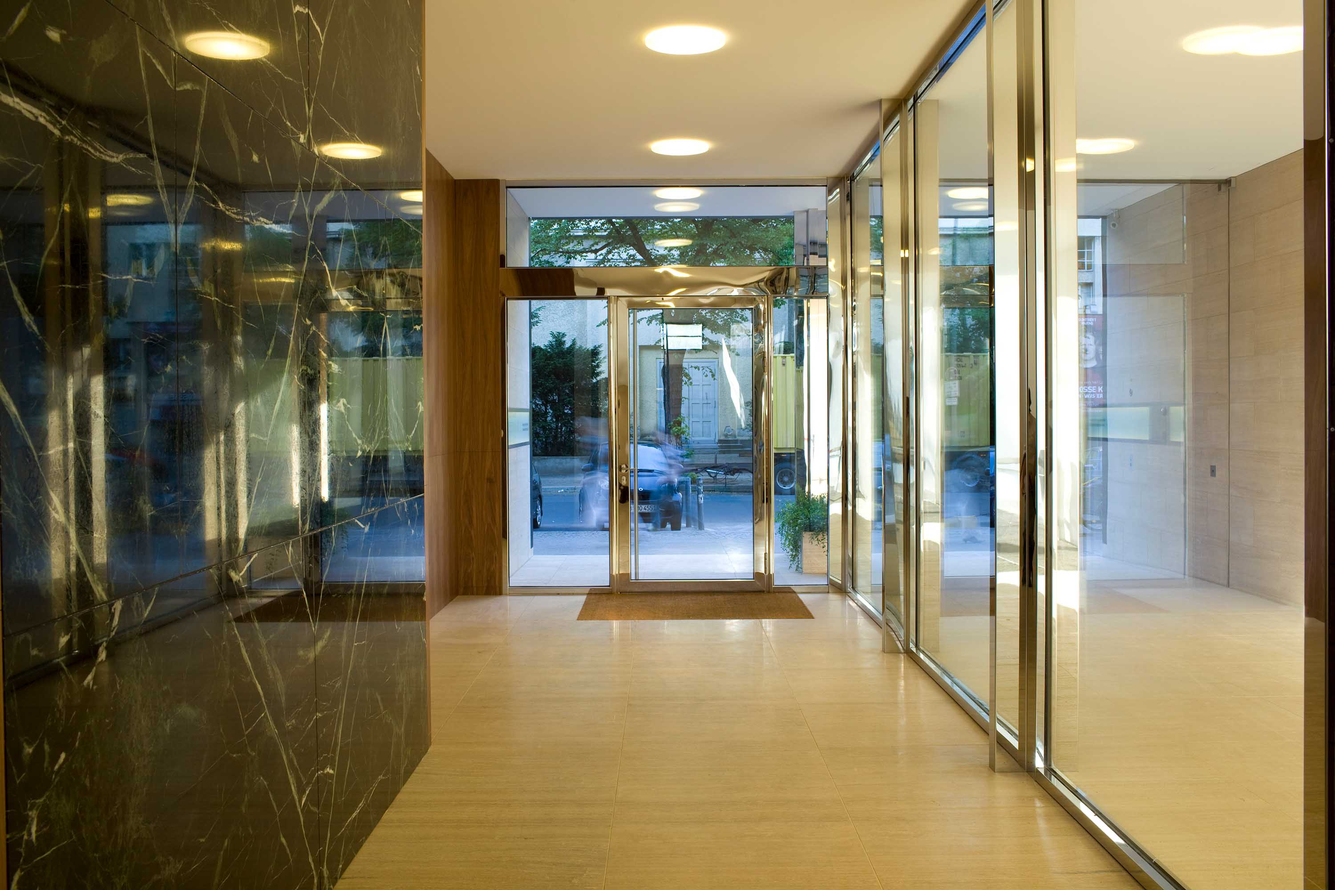
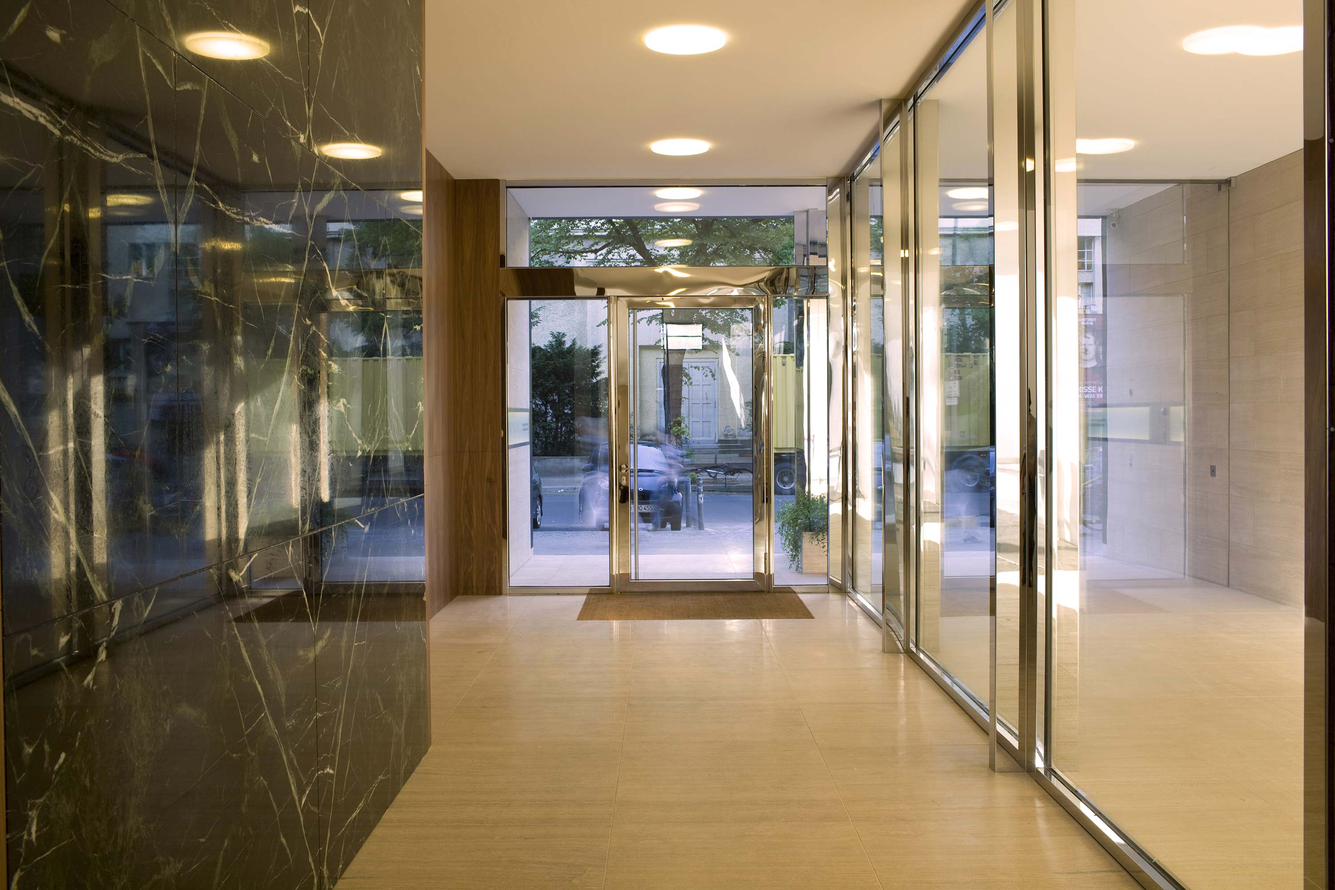
Further client's recommendations for sharper images and navbar

diff --git a/src/en/projects/gedaechtniskirche/index.html b/src/en/projects/gedaechtniskirche/index.html
@@ -3,7 +3,7 @@
 <head>
     <meta charset="UTF-8">
     <meta name="viewport" content="width=device-width, initial-scale=1.0">
-   <title>Hühne Development Services: Kaiser Wilhelm Memorial Church</title>
+    <title>Hühne Development Services: Kaiser Wilhelm Memorial Church</title>
 </head>
 <body>
     <nav class="navbar navbar-expand-lg fixed-top" id="mainNav">
@@ -30,9 +30,6 @@
             </button>
             <div class="collapse navbar-collapse" id="navbarResponsive">
                 <ul class="navbar-nav ml-auto">
-                    <li class="nav-item mx-0 mx-lg-1">
-                        <a class="nav-link py-3 px-0 px-lg-3 rounded js-scroll-trigger" href="/en">Home</a>
-                    </li>
                     <li class="nav-item mx-0 mx-lg-1">
                         <a class="nav-link py-3 px-0 px-lg-3 rounded js-scroll-trigger" href="/en/project-developer">Project Developer</a>
                     </li>

diff --git a/src/en/project-developer/index.html b/src/en/project-developer/index.html
@@ -1,7 +1,7 @@
 <!DOCTYPE html>
 <html lang="en">
     <head>
-        <meta charset="UTF-8" />
+       <meta charset="UTF-8" />
         <meta name="viewport" content="width=device-width, initial-scale=1.0">
         <title>Hühne Development Services: Project Developer</title>
     </head>
@@ -31,9 +31,6 @@
                 </button>
                 <div class="collapse navbar-collapse" id="navbarResponsive">
                     <ul class="navbar-nav ml-auto">
-                        <li class="nav-item mx-0 mx-lg-1">
-                            <a class="nav-link py-3 px-0 px-lg-3 rounded js-scroll-trigger" href="/en">Home</a>
-                        </li>
                         <li class="nav-item mx-0 mx-lg-1">
                             <a class="nav-link py-3 px-0 px-lg-3 rounded js-scroll-trigger" href="/en/project-developer">Project Developer</a>
                         </li>

diff --git a/src/datenschutz/index.html b/src/datenschutz/index.html
@@ -32,9 +32,6 @@
                 <div class="collapse navbar-collapse" id="navbarResponsive">
                     <ul class="navbar-nav ml-auto">
                         <li class="nav-item mx-0 mx-lg-1">
-                            <a class="nav-link py-3 px-0 px-lg-3 rounded js-scroll-trigger" href="/">Home</a>
-                        </li>
-                        <li class="nav-item mx-0 mx-lg-1">
                             <a class="nav-link py-3 px-0 px-lg-3 rounded js-scroll-trigger" href="/der-projektentwickler">Der Projektentwickler</a>
                         </li>
                         <li class="nav-item mx-0 mx-lg-1">

diff --git a/src/der-projektentwickler/index.html b/src/der-projektentwickler/index.html
@@ -32,9 +32,6 @@
                 <div class="collapse navbar-collapse" id="navbarResponsive">
                     <ul class="navbar-nav ml-auto">
                         <li class="nav-item mx-0 mx-lg-1">
-                            <a class="nav-link py-3 px-0 px-lg-3 rounded js-scroll-trigger" href="/">Home</a>
-                        </li>
-                        <li class="nav-item mx-0 mx-lg-1">
                             <a class="nav-link py-3 px-0 px-lg-3 rounded js-scroll-trigger" href="/der-projektentwickler">Der Projektentwickler</a>
                         </li>
                         <li class="nav-item mx-0 mx-lg-1">

diff --git a/src/impressum/index.html b/src/impressum/index.html
@@ -32,9 +32,6 @@
                 <div class="collapse navbar-collapse" id="navbarResponsive">
                     <ul class="navbar-nav ml-auto">
                         <li class="nav-item mx-0 mx-lg-1">
-                            <a class="nav-link py-3 px-0 px-lg-3 rounded js-scroll-trigger" href="/">Home</a>
-                        </li>
-                        <li class="nav-item mx-0 mx-lg-1">
                             <a class="nav-link py-3 px-0 px-lg-3 rounded js-scroll-trigger" href="/der-projektentwickler">Der Projektentwickler</a>
                         </li>
                         <li class="nav-item mx-0 mx-lg-1">

diff --git a/src/index.html b/src/index.html
@@ -33,9 +33,6 @@
                 <div class="collapse navbar-collapse" id="navbarResponsive">
                     <ul class="navbar-nav ml-auto">
                         <li class="nav-item mx-0 mx-lg-1">
-                            <a class="nav-link py-3 px-0 px-lg-3 rounded js-scroll-trigger" href="/">Home</a>
-                        </li>
-                        <li class="nav-item mx-0 mx-lg-1">
                             <a class="nav-link py-3 px-0 px-lg-3 rounded js-scroll-trigger" href="/der-projektentwickler">Der Projektentwickler</a>
                         </li>
                         <li class="nav-item mx-0 mx-lg-1">

diff --git a/src/kontakt/index.html b/src/kontakt/index.html
@@ -33,9 +33,6 @@
                 <div class="collapse navbar-collapse" id="navbarResponsive">
                     <ul class="navbar-nav ml-auto">
                         <li class="nav-item mx-0 mx-lg-1">
-                            <a class="nav-link py-3 px-0 px-lg-3 rounded js-scroll-trigger" href="/">Home</a>
-                        </li>
-                        <li class="nav-item mx-0 mx-lg-1">
                             <a class="nav-link py-3 px-0 px-lg-3 rounded js-scroll-trigger" href="/der-projektentwickler">Der Projektentwickler</a>
                         </li>
                         <li class="nav-item mx-0 mx-lg-1">

diff --git a/src/management/index.html b/src/management/index.html
@@ -32,9 +32,6 @@
                 <div class="collapse navbar-collapse" id="navbarResponsive">
                     <ul class="navbar-nav ml-auto">
                         <li class="nav-item mx-0 mx-lg-1">
-                            <a class="nav-link py-3 px-0 px-lg-3 rounded js-scroll-trigger" href="/">Home</a>
-                        </li>
-                        <li class="nav-item mx-0 mx-lg-1">
                             <a class="nav-link py-3 px-0 px-lg-3 rounded js-scroll-trigger" href="/der-projektentwickler">Der Projektentwickler</a>
                         </li>
                         <li class="nav-item mx-0 mx-lg-1">

diff --git a/src/en/contacts/index.html b/src/en/contacts/index.html
@@ -33,9 +33,6 @@
                 <div class="collapse navbar-collapse" id="navbarResponsive">
                     <ul class="navbar-nav ml-auto">
                         <li class="nav-item mx-0 mx-lg-1">
-                            <a class="nav-link py-3 px-0 px-lg-3 rounded js-scroll-trigger" href="/en">Home</a>
-                        </li>
-                        <li class="nav-item mx-0 mx-lg-1">
                             <a class="nav-link py-3 px-0 px-lg-3 rounded js-scroll-trigger" href="/en/project-developer">Project Developer</a>
                         </li>
                         <li class="nav-item mx-0 mx-lg-1">

diff --git a/src/en/imprint/index.html b/src/en/imprint/index.html
@@ -32,9 +32,6 @@
                 <div class="collapse navbar-collapse" id="navbarResponsive">
                     <ul class="navbar-nav ml-auto">
                         <li class="nav-item mx-0 mx-lg-1">
-                            <a class="nav-link py-3 px-0 px-lg-3 rounded js-scroll-trigger" href="/en">Home</a>
-                        </li>
-                        <li class="nav-item mx-0 mx-lg-1">
                             <a class="nav-link py-3 px-0 px-lg-3 rounded js-scroll-trigger" href="/en/project-developer">Project Developer</a>
                         </li>
                         <li class="nav-item mx-0 mx-lg-1">

diff --git a/src/en/index.html b/src/en/index.html
@@ -33,9 +33,6 @@
                 <div class="collapse navbar-collapse" id="navbarResponsive">
                     <ul class="navbar-nav ml-auto">
                         <li class="nav-item mx-0 mx-lg-1">
-                            <a class="nav-link py-3 px-0 px-lg-3 rounded js-scroll-trigger" href="/en">Home</a>
-                        </li>
-                        <li class="nav-item mx-0 mx-lg-1">
                             <a class="nav-link py-3 px-0 px-lg-3 rounded js-scroll-trigger" href="/en/project-developer">Project Developer</a>
                         </li>
                         <li class="nav-item mx-0 mx-lg-1">

diff --git a/src/en/management/index.html b/src/en/management/index.html
@@ -32,9 +32,6 @@
                 <div class="collapse navbar-collapse" id="navbarResponsive">
                     <ul class="navbar-nav ml-auto">
                         <li class="nav-item mx-0 mx-lg-1">
-                            <a class="nav-link py-3 px-0 px-lg-3 rounded js-scroll-trigger" href="/en">Home</a>
-                        </li>
-                        <li class="nav-item mx-0 mx-lg-1">
                             <a class="nav-link py-3 px-0 px-lg-3 rounded js-scroll-trigger" href="/en/project-developer">Project Developer</a>
                         </li>
                         <li class="nav-item mx-0 mx-lg-1">
